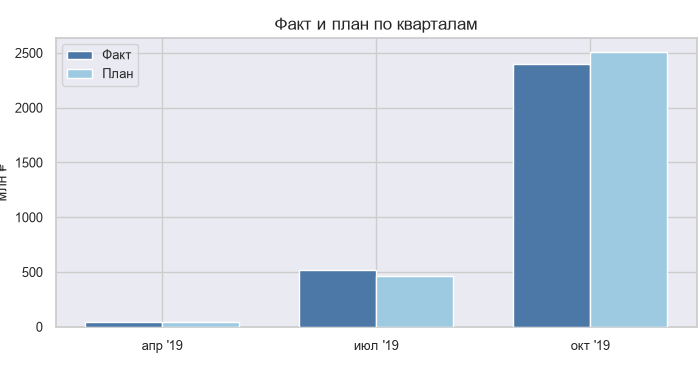
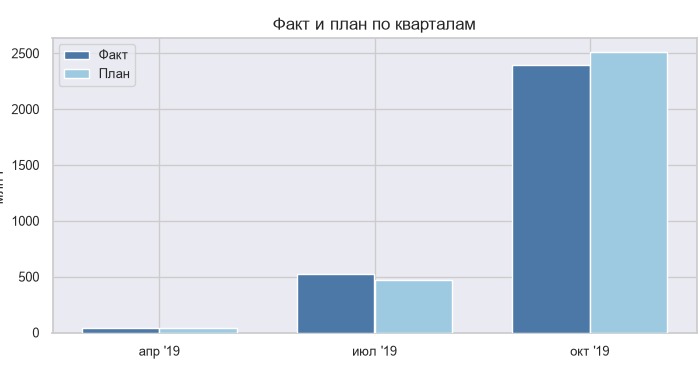
Unify 700x380 charts: tighter margins, matched LTV titles.

diff --git a/fintech_ltv/normalize_charts.py b/fintech_ltv/normalize_charts.py
@@ -1,4 +1,4 @@
-"""Normalize LTV heatmaps to 700x380; match cumulative title size to heatmap."""
+"""Pad/crop LTV charts to 700x380; unify title font without clipping data rows."""
 from pathlib import Path
 
 import numpy as np
@@ -6,35 +6,14 @@ from PIL import Image, ImageDraw, ImageFont
 
 ROOT = Path(__file__).resolve().parent / "images"
 TARGET = (700, 380)
-PAD = 2
 BG = (255, 255, 255)
-
-
-def content_box(im: Image.Image, thr=250):
-    arr = np.asarray(im.convert("RGB"))
-    mask = (arr < thr).any(axis=2)
-    ys, xs = np.where(mask)
-    return int(xs.min()), int(ys.min()), int(xs.max() + 1), int(ys.max() + 1)
-
-
-def fit_canvas(im: Image.Image, size=TARGET, pad=PAD, bg=BG) -> Image.Image:
-    box = content_box(im)
-    cropped = im.crop(box).convert("RGB")
-    tw, th = size[0] - 2 * pad, size[1] - 2 * pad
-    cw, ch = cropped.size
-    scale = min(tw / cw, th / ch)
-    nw, nh = max(1, int(round(cw * scale))), max(1, int(round(ch * scale)))
-    resized = cropped.resize((nw, nh), Image.Resampling.LANCZOS)
-    canvas = Image.new("RGB", size, bg)
-    canvas.paste(resized, ((size[0] - nw) // 2, (size[1] - nh) // 2))
-    return canvas
 
 
 def load_font(size: int) -> ImageFont.ImageFont:
     for name in (
-        "C:/Windows/Fonts/arial.ttf",
-        "C:/Windows/Fonts/segoeui.ttf",
-        "C:/Windows/Fonts/calibri.ttf",
+        r"C:\Windows\Fonts\arial.ttf",
+        r"C:\Windows\Fonts\segoeui.ttf",
+        r"C:\Windows\Fonts\calibri.ttf",
     ):
         try:
             return ImageFont.truetype(name, size)
@@ -43,57 +22,76 @@ def load_font(size: int) -> ImageFont.ImageFont:
     return ImageFont.load_default()
 
 
-def title_ink_height(im: Image.Image, max_y=45) -> int:
+def content_box(arr: np.ndarray, thr=250):
+    mask = (arr < thr).any(axis=2)
+    ys, xs = np.where(mask)
+    return int(xs.min()), int(ys.min()), int(xs.max() + 1), int(ys.max() + 1)
+
+
+def fit_canvas(im: Image.Image, size=TARGET, pad=2) -> Image.Image:
     arr = np.asarray(im.convert("RGB"))
-    dark = (arr < 60).any(axis=2)
-    rows = np.where(dark.any(axis=1) & (np.arange(arr.shape[0]) < max_y))[0]
-    if len(rows) == 0:
-        return 0
-    return int(rows.max() - rows.min() + 1)
+    x0, y0, x1, y1 = content_box(arr)
+    cropped = im.convert("RGB").crop((x0, y0, x1, y1))
+    tw, th = size[0] - 2 * pad, size[1] - 2 * pad
+    cw, ch = cropped.size
+    scale = min(tw / cw, th / ch)
+    nw, nh = max(1, int(round(cw * scale))), max(1, int(round(ch * scale)))
+    resized = cropped.resize((nw, nh), Image.Resampling.LANCZOS)
+    canvas = Image.new("RGB", size, BG)
+    canvas.paste(resized, ((size[0] - nw) // 2, (size[1] - nh) // 2))
+    return canvas
 
 
-def replace_title(im: Image.Image, text: str, font_size: int, band=34) -> Image.Image:
-    out = im.convert("RGB").copy()
-    w, _ = out.size
+def data_start_y(arr: np.ndarray) -> int:
+    """First row that looks like heatmap cells (many non-white colored pixels)."""
+    h, w, _ = arr.shape
+    for y in range(h):
+        row = arr[y]
+        # saturated / non-gray color pixels
+        mx = row.max(axis=1)
+        mn = row.min(axis=1)
+        colorful = ((mx - mn) > 25) & (mx < 250)
+        if colorful.mean() > 0.08:
+            return y
+    return 40
+
+
+def set_title(im: Image.Image, text: str, font_size: int = 13) -> Image.Image:
+    out = im.convert("RGB")
+    arr = np.asarray(out)
+    start = data_start_y(arr)
+    # Leave a few px gap above data
+    band = max(28, min(start - 4, 48))
     draw = ImageDraw.Draw(out)
-    draw.rectangle([0, 0, w, band], fill=BG)
+    draw.rectangle([0, 0, out.size[0], band], fill=BG)
     font = load_font(font_size)
     bbox = draw.textbbox((0, 0), text, font=font)
     tw, th = bbox[2] - bbox[0], bbox[3] - bbox[1]
-    x = (w - tw) // 2
-    y = max(2, (band - th) // 2 - 1)
+    # If title doesn't fit, shrink font
+    while tw > out.size[0] - 16 and font_size > 10:
+        font_size -= 1
+        font = load_font(font_size)
+        bbox = draw.textbbox((0, 0), text, font=font)
+        tw, th = bbox[2] - bbox[0], bbox[3] - bbox[1]
+    x = (out.size[0] - tw) // 2
+    y = max(2, (band - th) // 2)
     draw.text((x, y), text, fill=(0, 0, 0), font=font)
     return out
 
 
 def main():
-    heatmap_path = ROOT / "source_revenue_heatmap.png"
+    hm_path = ROOT / "source_revenue_heatmap.png"
     ltv_path = ROOT / "cumulative_ltv.png"
 
-    # Start from current files; if already processed, still ok
-    hm = fit_canvas(Image.open(heatmap_path))
-    hm.save(heatmap_path)
-    ref = title_ink_height(hm)
-
-    # Pick font size so title ink ≈ heatmap (~12–14pt → ~16–20px)
-    best_size, best_diff = 12, 10**9
-    base = fit_canvas(Image.open(ltv_path))
-    for size in range(11, 16):
-        trial = replace_title(base, "Накопительный LTV по когортам", size)
-        h = title_ink_height(trial)
-        diff = abs(h - ref)
-        print(f"  try font={size} title_h={h} ref={ref} diff={diff}")
-        if diff < best_diff:
-            best_diff, best_size = diff, size
-
-    ltv = replace_title(base, "Накопительный LTV по когортам", best_size)
+    # Same canvas + same title font size for both
+    font_size = 13
+    hm = set_title(fit_canvas(Image.open(hm_path)), "Выручка по месяцам и каналам", font_size)
+    ltv = set_title(fit_canvas(Image.open(ltv_path)), "Накопительный LTV по когортам", font_size)
+    hm.save(hm_path)
     ltv.save(ltv_path)
 
-    for p in (heatmap_path, ltv_path):
-        im = Image.open(p)
-        box = content_box(im)
-        pads = (box[0], box[1], im.size[0] - box[2], im.size[1] - box[3])
-        print(p.name, im.size, "pads", pads, "title_h", title_ink_height(im))
+    for p, im in ((hm_path, hm), (ltv_path, ltv)):
+        print(p.name, im.size)
 
 
 if __name__ == "__main__":

diff --git a/marketplace_sales/make_charts.py b/marketplace_sales/make_charts.py
@@ -48,8 +48,8 @@ def fmt_money(x, _pos=None):
 
 
 def save_chart(fig, path: Path):
-    # Fill the fixed canvas — same approach as other 700x380 portfolio charts
-    fig.subplots_adjust(left=0.08, right=0.995, top=0.90, bottom=0.14)
+    # Fill the fixed 700x380 canvas as tightly as other portfolio charts
+    fig.subplots_adjust(left=0.075, right=0.995, top=0.90, bottom=0.125)
     fig.savefig(path, dpi=DPI, facecolor=FIG_BG)
     plt.close(fig)
     im = Image.open(path)
